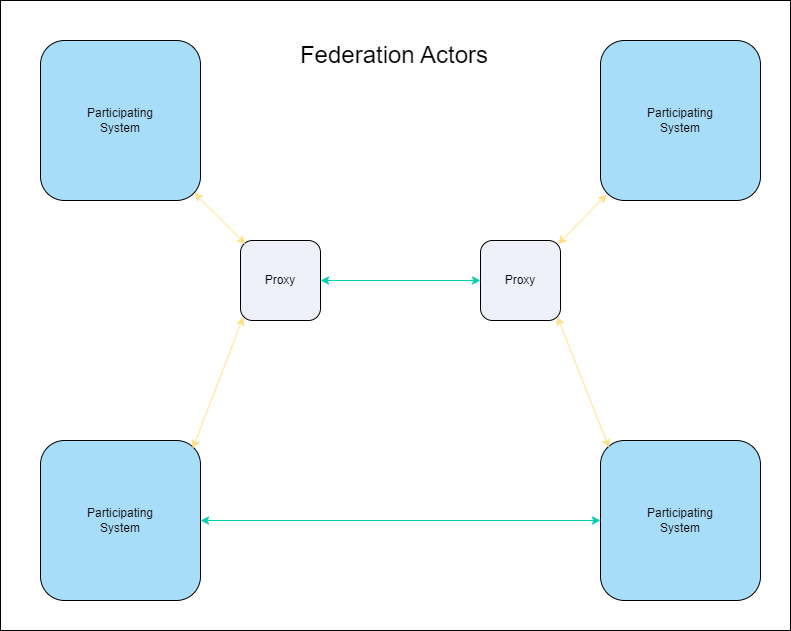
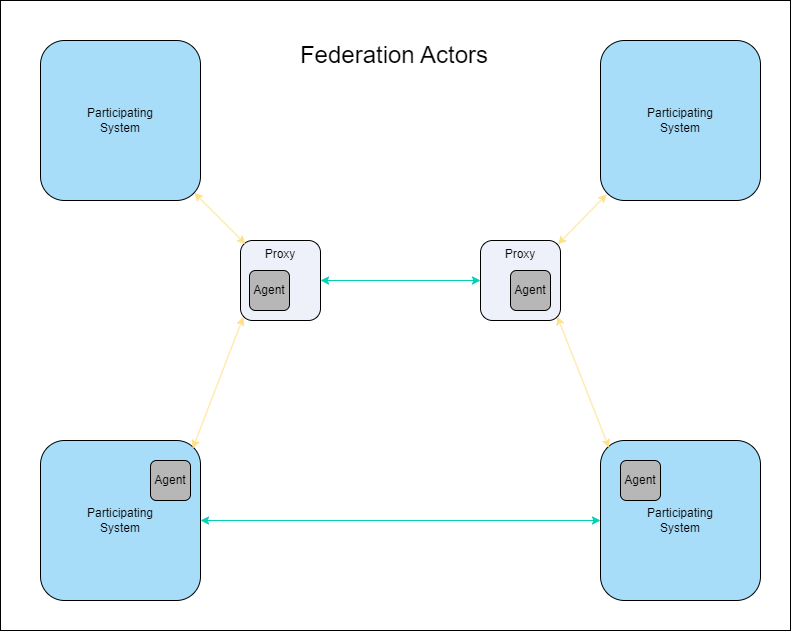
Complete Protocol Spec and Project Write-up

diff --git a/Milestone 1/1b - Draft federation protocol specification/protocol-spec.md b/Milestone 1/1b - Draft federation protocol specification/protocol-spec.md
@@ -1,16 +1,35 @@
 # Draft Federation Protocol Specification
 
 ## Introduction
-The intention of data federation is to free up information from the silos of proprietary software.  There are several promising initiatives in this sphere, among which [ForgeFed](https://forgefed.org/spec/) is a project of particular note, and to a lesser extent the [Data Transfer Initiative](https://dtinit.org/) (DTI).  Those each focus on a specific information subdomain - source code forges and social media respectively.  The Federated Task-Tracking project takes a somewhat different approach - whilst it also addresses some of the same concerns as ForgeFed (namely issue-tracking), it also considers the general case of data federation, and live information sharing.
+The intention of data federation is to free up information from the silos of proprietary software.  In an increasingly SaaS-orientated age, in which applications provided as an internet service store and manage the information they bring in and generate on their users' behalf, the ability to share that information with others is constrained by the reluctance of those providers to facilitate that sharing.  This is because they regard it as a commercial risk of customer churn, which they need to minimise so they can continue to grow their revenues in line with shareholder requirements.  The question of data ownership is complex, and outside this specification's scope, but customers of SaaS providers nevertheless desire to be able to use their data in the way they see fit, in software tools of their choosing, and this means being able to move their data between systems.  Data federation seeks to provide a technical mechanism to address this misalignment of interests.
+
+There are several promising initiatives in this sphere, among which [ForgeFed](https://forgefed.org/spec/) is a project of particular note, and to a lesser extent the [Data Transfer Initiative](https://dtinit.org/) (DTI).  Those each focus on a specific information subdomain - source code forges and social media respectively.  The Federated Task-Tracking project takes a somewhat different approach - whilst it also addresses some of the same concerns as ForgeFed (namely issue-tracking), it also considers the general case of data federation, and live information sharing.
 
 This project has built on the foundations laid in its predecessor [Federated Timesheets](https://github.com/federatedbookkeeping/timesheets).  That did not attempt to define any kind of protocol around federation, but rather to demonstrate the concept for a very specific subdomain.
 
-A full-blown formal protocol specification is also beyond the scope of this project, in that it forms a relatively small part of that scope, so the content of this specification is high-level and conceptual.  A future project may expand upon this, taking into account complementary efforts in related projects.
+A full-blown formal protocol specification is also beyond the scope of this project, since it forms a relatively small part of that scope, so the content of this specification is high-level and conceptual.  A future project may expand upon this, taking into account complementary efforts in related projects.
+
+## Definitions
+### Federation
+A group of systems which share data in peer to-peer transmissions where information flows from a node to its neighbours, while ensuring each individual node maintains
+data sovereignty, or the ability to choose the access rights of other nodes in federation, thus being able to arbitrarily veto external accesses and modifications to its own data.
+
+It is in essence a loose collection of systems that choose to support only those data formats and interaction protocols of systems that they wish to connect to, for their own benefit.
+### Home System
+Data are assumed to originate in one system, and be propagated to others via federation.  The system in which they originate is referred to as the Home System.
+### Multi-Homed Data
+This refers to data that are shared through federation, and that can be edited in more than system (either live or asynchronously).
+### Live Data
+This either means data propagated to other systems for edit upon being committed to the data store of their Home System, or data that can be edited in real-time in multiple applications.
+### Identifier
+A series of digits and/or characters that is used to uniquely identify an entity within one domain or system.
+### Identity
+Also called a Security Principal, this is the digital representation of a person, application service, or system that requires certain privileges for operating on data, with associated constraints on those privileges and audit of their use.
 
 ## Goals
 These may be summed up in the pithy phrase 'Connected, but sovereign', referring to applications participating in a data-sharing federation.
 ### Data Sovereignty
-In an increasingly SaaS-orientated age, in which applications provided as an internet service store and manage the information they bring in and generate on their users' behalf, the ability to share that information with others is constrained by the reluctance of those providers to facilitate that sharing.  This is because they regard it as a commercial risk of customer churn, which they need to minimise so they can continue to grow their revenues in line with shareholder requirements.  The question of data ownership is complex, and outside this specification's scope, but customers of SaaS providers nevertheless desire to be able to use their data in the way they see fit, in software tools of their choosing, and this means being able to move their data between systems.  Historically, this was primarily through export as a one-way migration, but expectations have latterly grown to being able to do so more interactively, maintaining the same data in different systems for various purposes.
+This means being able to use data in a system of one's choosing, rather than solely in the one(s) where they were created.  Historically, this was primarily through export as a one-way migration, but expectations have latterly grown to being able to do so more interactively, maintaining the same data in different systems for various purposes.
 
 ### Enable More Seamless Information Sharing
 One of those purposes is to be able to share information of common interest between different people using software tools of their choice, either within the same organisation, or across multiple organisations.  Federation needs to enable that.
@@ -18,28 +37,35 @@ One of those purposes is to be able to share information of common interest betw
 ### Enable More Effective Collaboration
 Whilst the majority of use cases pertaining to information sharing are asynchronous in nature, a subset benefit from real-time sharing.  These fall into the category of collaborative editing, where information needs to be shared real-time.  This has also been considered within this specification.
 
-## Trade-offs
-The second and third goals above are in tension, and give rise to certain trade-offs being necessary in the protocol design.
-### Data Sovereignty vs. Real-Time Sharing
-One implication of _system_ sovereignty (by contrast with data sovereignty) is that any demands upon it for change in order to interact with other systems should be minimised.  Live information sharing, however, requires much closer and deeper integration between participating applications, which requires substantive changes to each to enable.  This applies not only technically (where modifications are needed to support real-time data exchange) but also philosophically, in that those applications need to cede control of the metadata describing the data they wish to share to an agreed common structure.  See the m-ld article [Sustaining Truth across Integrated Applications - converge physical sources into one logical source](https://m-ld.org/news/) for a more in-depth treatment of this topic.
+## Trade-offs and Constraints
+The first and third goals above are in tension, and give rise to certain trade-offs being necessary in the protocol design.
+### System Sovereignty vs. Real-Time Sharing
+One implication of _system_ sovereignty (by contrast with data sovereignty) is that any demands upon it for change in order to interact with other systems should be minimised - or even zero.  Live information sharing, however, requires much closer and deeper integration between participating applications, which requires substantive changes to each to enable.  This applies not only technically (where modifications are needed to support real-time data exchange) but also philosophically, in that those applications need to cede control of the metadata describing the data they wish to share to an agreed common structure.  See the m-ld article [Sustaining Truth across Integrated Applications - converge physical sources into one logical source](https://m-ld.org/news/) for a more in-depth treatment of this topic.
 
-There is hence a continuum between maximum system sovereignty on one hand, and full real-time data sharing at the other.
+There is hence a continuum between maximal system sovereignty on one hand (i.e. where they admit of no change to accommodate other federation members' needs), and full real-time data sharing at the other, with degrees of flexibility inbetween.
 
-The impact of this trade-off is that multiple flavours of the protocol therefore arise, depending on where on that continuum the participating systems sit.
+The impact of this trade-off is that multiple variants of the protocol therefore apply, depending on where on that continuum the participating systems sit.
 
 ![System Sovereignty Continuum](./system-sovereignty-continuum.png)
 
+### Non-duplication of Data
+The propagation of data between Participating Systems must not result in the same data being stored by any one of them; each system (or Proxy) receiving data from another must verify that the data in question have not previousy been received.
+
 ## Core Protocol Logic
 ### Actors
+The diagram below depicts the main Actors comprising a federation in this iteration of the protocol.
+
+![Federation Actors](./federation-actors.png)
+
 #### Participating Systems
-These are the applications actually participating in the federation, in whatever capacity.
-
-![Participating Systems](./federation-actors.png)
-
+These are the applications actually participating in the federation, in whatever capacity.  These may be maximally sovereign, or more flexible, catering for different schemata in other systems.
 #### Proxies
-For Participating Systems on the extreme left-hand of the System Sovereignty Continuum, with stringent sovereignty requirements meaning they cannot be modified, proxies interact with them to read and write data on their behalf from and to other systems.
+For maximally sovereign Participating Systems, proxies read and write data on their behalf from and to other systems.
 #### Agents
-These are the software components in the Participating Systems or Proxies that detect data changes from elsewhere, evaluate them for whether they need to be passed on to other systems in the federation, and initiate that task.
+These software components in flexible Participating Systems or Proxies have the following responsibilities:
+ - Detect data changes from elsewhere;
+ - Determine whether they need to be passed on to other systems in the federation; and if so
+ - Initiate that task.
 ### High-Level Logical Operations
 #### Read
 Almost self-expanatory in nature, this requests data from another system in a federation - either directly or via a proxy.
@@ -48,10 +74,32 @@ Similarly, this writes data to another participating system, either directly or 
 #### Trigger
 Akin to an event in a Pub-Sub architecture, a Trigger detects a change to data relevant to the federation, prompting a particular Agent to carry out an Operation.
 #### Propagation Check
-Specific to federation, this Operation occurs immediately in response to a Trigger, and determines whether the change detected needs to be propagated to other Pariticpating Systems.
+Specific to federation, this Operation occurs in an Agent immediately in response to a Trigger, and determines whether the change detected is new, or has been received previously from another Particpating System.
+### Propagation Mechanisms
+#### Polling
+Participating Systems (or their Proxies) may poll others for changes in data.
+#### Publish-Subscribe
+Participating Systems (or their Proxies) may publish changes to data on a message queue for others subscribing to that queue to collect.
+#### Webhooks
+The federation connectivity between Participating Systems may permit the configuration of WebHooks - essentially callback URLs - for other systems to use to retrieve changed data upon being notified of their existence (via a notification-only variant of the above Publish-Subscribe mechanism).
+## Schemata and Identifiers
+### Schema Agreement
+Participating Systems (or their Proxies) need to be able to agree on the schema used for the relevant domain of shared information.  This may be accomplished in one of the two following ways, depending on where they sit on the System Sovereignty Continuum:
+ - Metadata mapping; or
+ - Shared schema in a CRDT domain representing common metadata
+### Entity Identifiers
+Each entity requires an LRI (Local Resource Identifier) which is mapped to its ORI (Original Resource Identifier), the identifier assigned to the entity in its Home System.
+
+This may be accomplished in one of the two following ways, depending on the Systems' position on the Sovereignty Continuum:
+- Add metadata to suitable fields in each Participating System, showing equivalent records in other systems; or
+- Uniquely identify entities with URIs in the m-ld domain used for live data sharing.
 ## Security
 ### Authentication and Authorization
-Participating Systems or their Proxies use and cache the credentials required to access other Participating Systems.  These can take the form of username and password (with corresponding permissions set in the target system), JSON Web Tokens (with authorization scopes set in the JWT), or X.509 client certificates, depending on what those systems require.
+Participating Systems or their Proxies use and cache the credentials required to access other Participating Systems.  These can take any of the follosing forms, depending on what those systems require:
+- Username and password (with corresponding permissions set in the target system);
+- JSON Web Tokens (with authorization scopes set in the JWT);
+- X.509 client certificates;
+- Federated identities, if these are common to more than one of the Participating Systems.
 ### Encryption
 #### Data at Rest
 This is beyond this specification's scope.
